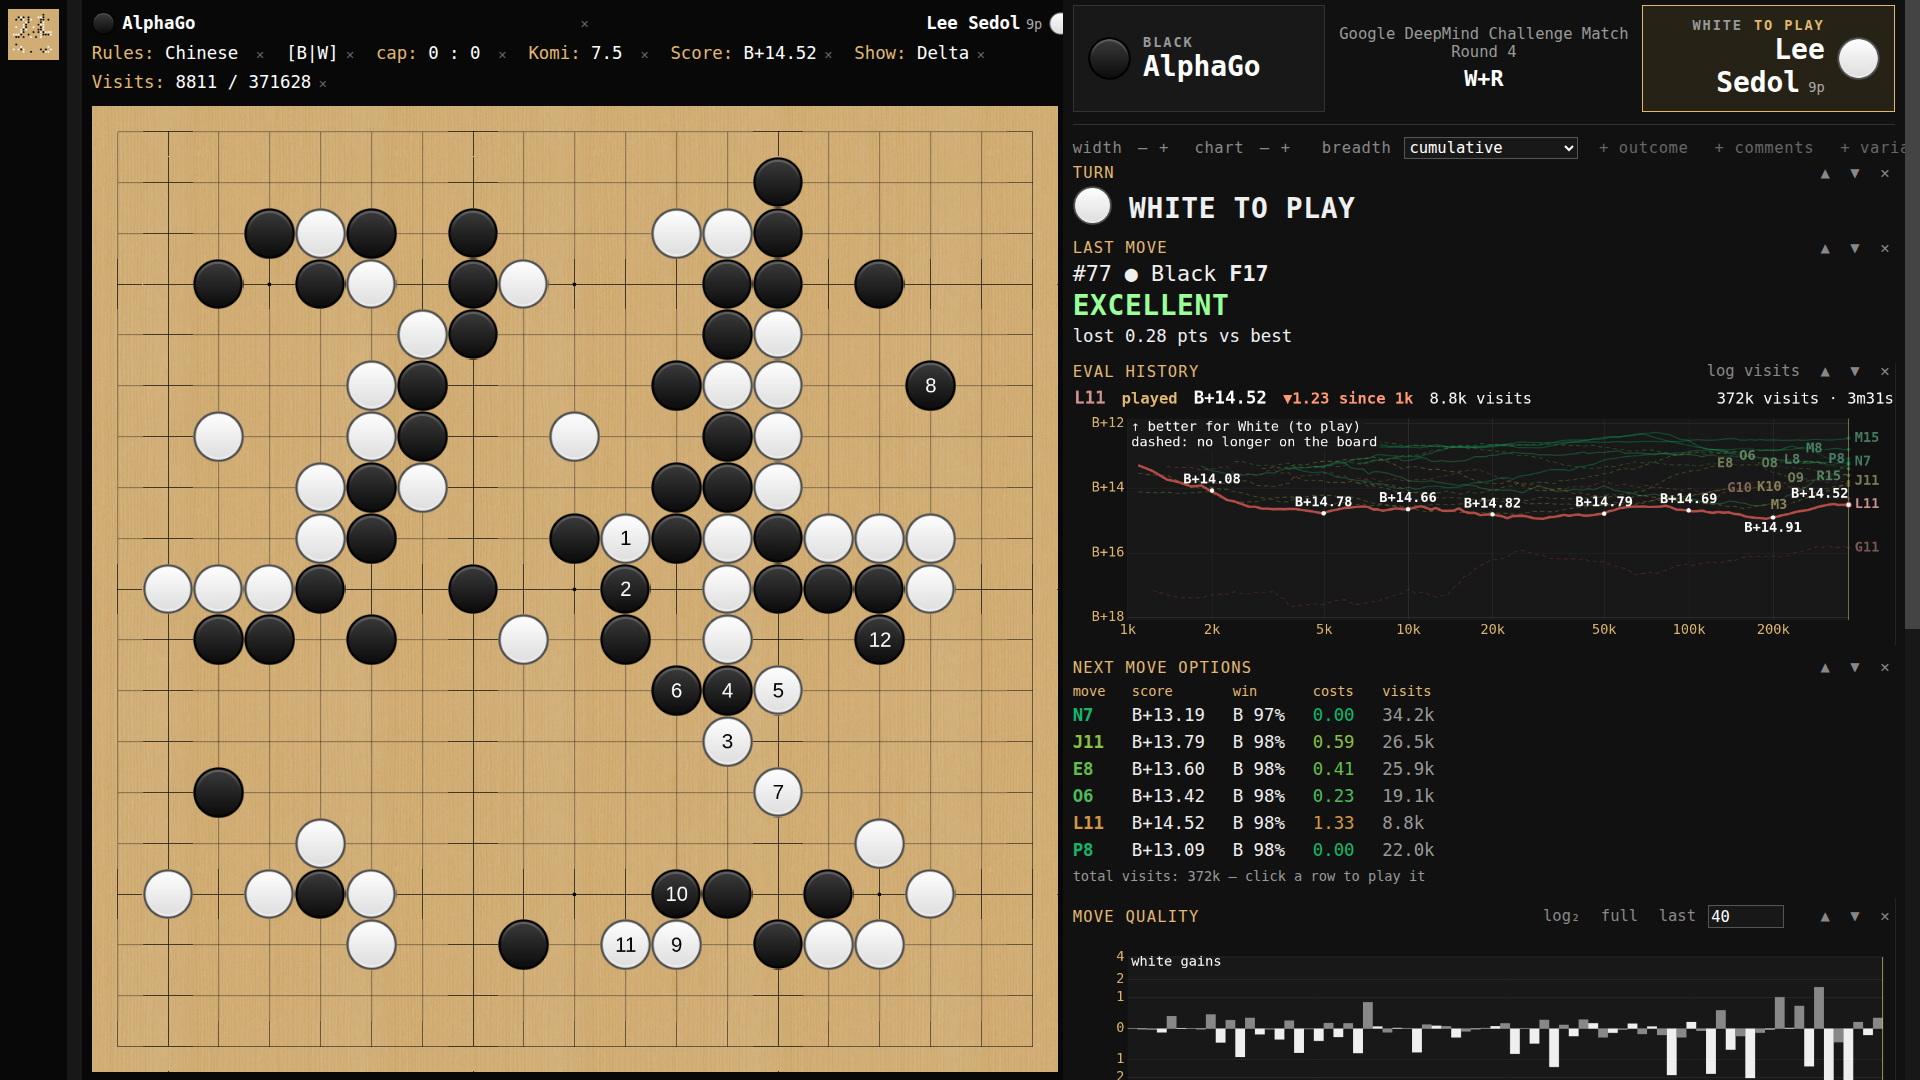
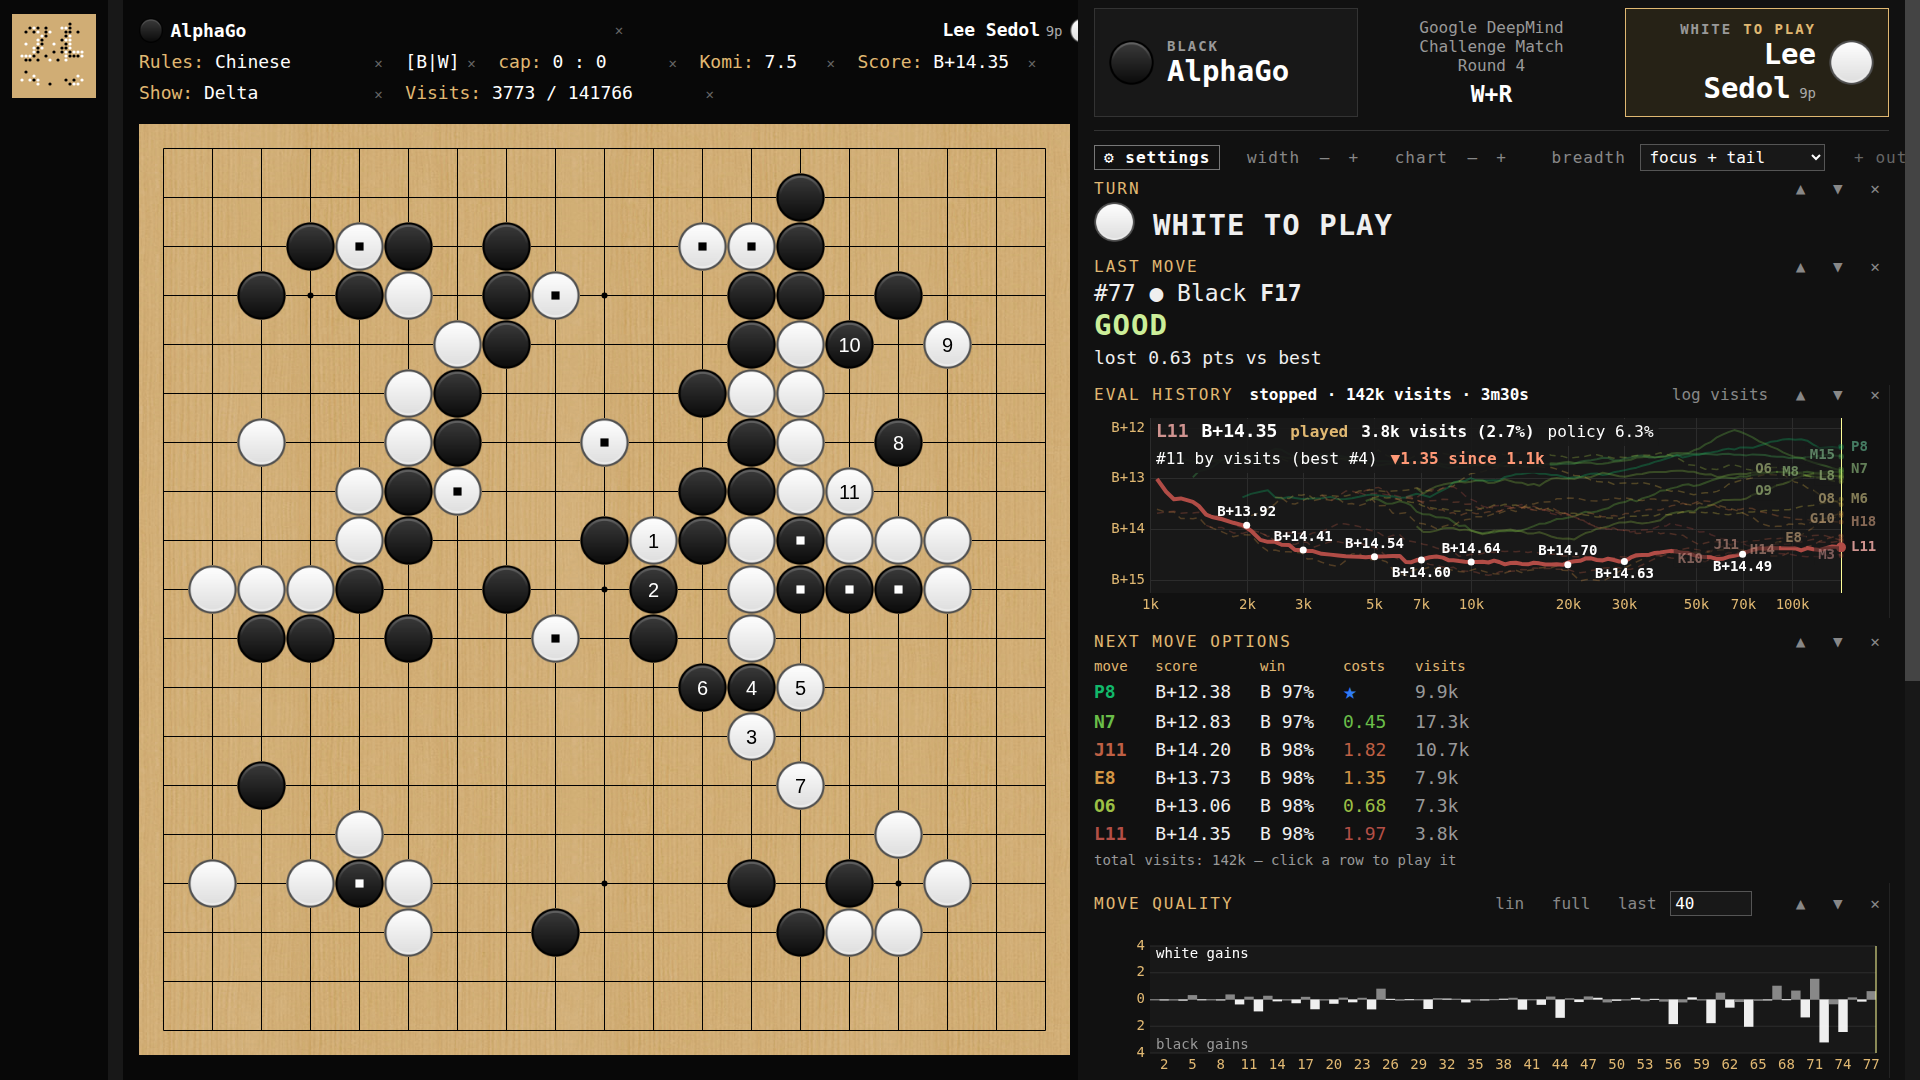
README screenshots: refresh the move-78 set with the star and label hover
- Re-shot from one live 142k-visit search of Lee Sedol–AlphaGo Game 4
  before move 78 (Best + 5): conventional loss labels with P8 as the blue
  star, a board hover on L11 with the new band, and a hover on E8's chart
  label putting E8's continuation on the board.
- eval-history-card.png (old header row) replaced by
  eval-history-label-hover-e8.png; captions and sample-game notes updated,
  including that a same-settings search ranked N7 above P8 instead.
- PRODUCT.md: the board's "-0.67" is a deliberate exception to rule 1;
  the explored-moves reference wording follows the star.
- agents.md: gh needs -R ernop/ogatak-clear.

diff --git a/README.md b/README.md
@@ -11,9 +11,10 @@ Ogatak. The detailed requirements and rationale are in
 
 ![ogatak-clear before Lee Sedol's move 78 against AlphaGo, showing Best + 5 candidates and Eval history](docs/screenshots/count-mode-eval-history-move-78.png)
 
-_Lee Sedol–AlphaGo Game 4, just before Lee's move 78, after a three-minute
-search. The board shows the engine's best move (`0`), the five closest
-alternatives, and the move Lee actually played (L11, red). Eval history, on
+_Lee Sedol–AlphaGo Game 4, just before Lee's move 78, after a
+three-and-a-half-minute search (142k visits). The board shows KataGo's top
+move (P8, the blue star), the five next-best moves by score with the points
+each loses against it, and the move Lee actually played (L11, red). Eval history, on
 the right, plots the value of every move shown during the search against the
 search's visits; moves that have since left the board are dashed. See the
 [source and analysis details](docs/sample-games/README.md)._
@@ -121,8 +122,9 @@ about 10 minutes at the engine's current 1,625 visits/s._
 
 _Hovering L11 shows its principal variation on the board and follows it in
 Eval history: its line is drawn on top and labelled with what KataGo said
-about it at each visits tick, and the header gives its value now, its change
-since 1k visits, and its own visits._
+about it at each visits tick. The band along the top gives its value now, its
+visits and share of the search, its policy prior, its rank by visits (11th,
+at best 4th), and how much worse it got for White since its line started._
 
 * A Move Report card charting how every candidate's value moves as the
   current position's search goes on, from 1,000 visits to however long you
@@ -154,12 +156,14 @@ since 1k visits, and its own visits._
   longer search until the new one overtakes it, just like the analysis
   itself.
 
-![The Eval history card following a move that has left the board](docs/screenshots/eval-history-card.png)
+![Hovering E8's label in Eval history shows its continuation on the board](docs/screenshots/eval-history-label-hover-e8.png)
 
-_Following E8 after it has left the board. KataGo's value for it improved by
-half a point for White from 1k visits to 377k, but other moves improved more,
-so it lost its Best + 5 place; its line stays, dashed, like every other move
-that was once shown._
+_Hovering E8's label in the chart. E8 is no longer among the Best + 5, so it
+has no circle and its line is dashed, but its continuation is on the board
+just as if E8 were hovered there. The band shows why it dropped: the network
+liked it at first sight (a 17% policy prior), and it was once KataGo's
+second-most-searched move, but the search now puts it fifth by visits and
+1.35 points worse for White than P8._
 
 ## The Move Report panel
 

diff --git a/PRODUCT.md b/PRODUCT.md
@@ -110,7 +110,10 @@ reference.
    fonts and stands out from the black numbers on every candidate colour;
    the costs column shows ★ in the same blue. (The 2026-10-07 "☻" was not
    distinctive enough.) The loss is always the mover's, so "Numbers from
-   Black's view" does not flip it.
+   Black's view" does not flip it. The board's minus sign is a deliberate
+   exception to framework rule 1, by Ernest's choice (2026-10-08): "-0.67"
+   is the conventional Delta notation, and a shown loss is never positive,
+   so the sign never needs converting.
    Why a move can score better than the reference, and why it still reads
    as losing nothing rather than re-basing every loss on it (2026-10-08):
    the reference is KataGo's top move, which KataGo ranks by visits and a
@@ -335,10 +338,11 @@ reference.
    - P's list keeps KataGo's order. An explored value replaces P's entry for
      the move in place; moves P's search never reported follow, most visits
      first.
-   - The reference (cost 0, shown as ☻) stays P's best move, using its
-     explored value when it was explored too. An explored move that scores
-     better also costs 0 and shows ☻, like any move better than the
-     reference (rule 5).
+   - The reference (cost 0, shown as the blue star) stays P's best move,
+     using its explored value when it was explored too. An explored move
+     that scores better also costs 0 and shows the star, like any move
+     better than the reference ("Loss notation" under "Next move options
+     and values").
    - Shown in: board candidates, drawn like any other candidate
      (2026-10-07). An explored move is a move like any other, and its
      value means what every candidate's value means, KataGo's evaluation

diff --git a/docs/sample-games/README.md b/docs/sample-games/README.md
@@ -25,6 +25,9 @@ Current Candidate Values and Eval history still require live analysis after
 reopening the file.
 
 The three move-78 screenshots (the position just before Lee Sedol's move 78)
-were taken from one live search of about three and a half minutes,
-366,000–377,000 visits, with **Display → Candidate moves shown** set to
-`Best + 5 moves`.
+were taken from one live search of three and a half minutes, 142,000 visits
+(the GPU was shared with another KataGo), with this analyzed file loaded and
+**Display → Candidate moves shown** set to `Best + 5 moves`. Another search of the same position with the same engine
+settings, run just before it, ended with N7 as KataGo's top
+move instead of P8 and with 140,000 visits. At this depth, moves within about
+half a point of each other can swap places from one search to the next.

diff --git a/agents.md b/agents.md
@@ -55,6 +55,8 @@ improving the comprehensibility of the AI data shown during game review.
 - `origin` — github.com/ernop/ogatak-clear (public).
 - `upstream` — github.com/rooklift/ogatak. Pull his releases and merge; our
   changes are deliberately concentrated in few files to keep merges small.
+- `gh` has no default repository here and silently lists nothing; pass
+  `-R ernop/ogatak-clear` (e.g. `gh run list -R ernop/ogatak-clear`).
 
 ## Running
 
